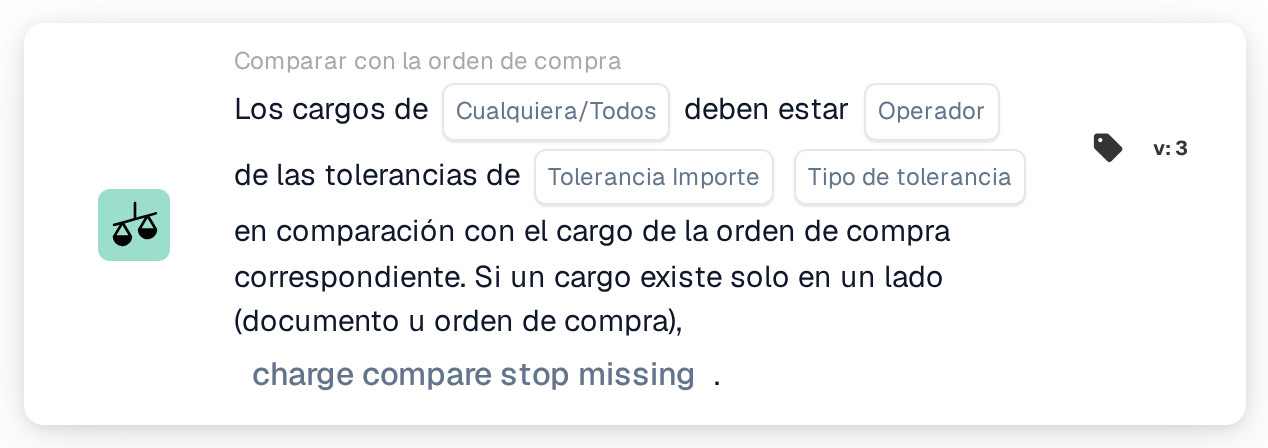
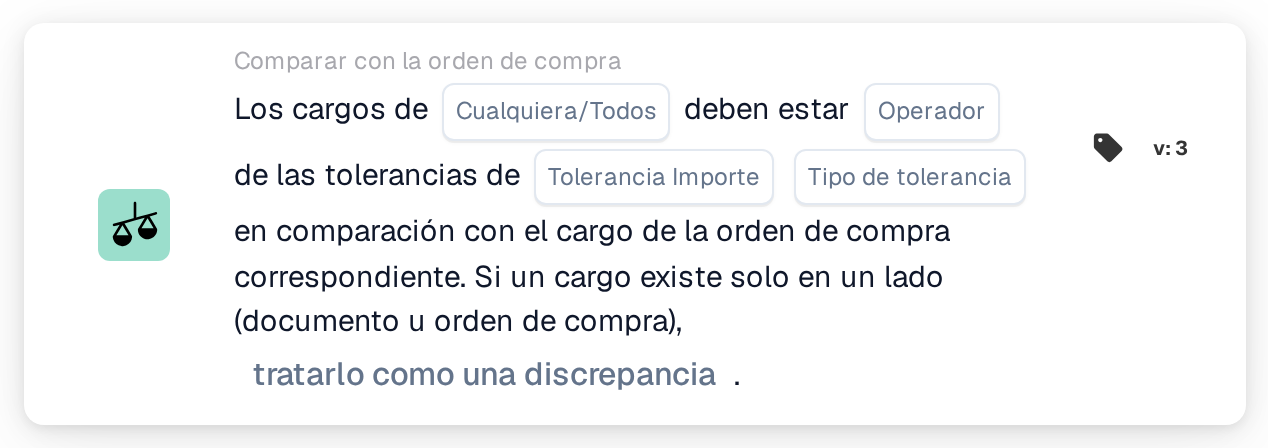
[Documentation_Workflow_Cards] [DRFS-871] add compare charges to po v4

Changed region(s): [[0.1845, 0.8125, 0.5844, 0.875]]

diff --git a/public_docs/administration-and-setup/workflow/and/compare-with-purchase-order/any-all-charges.md b/public_docs/administration-and-setup/workflow/and/compare-with-purchase-order/any-all-charges.md
@@ -4,13 +4,15 @@
 
 <figure><img src="../../../../.gitbook/assets/workflow_card_condition_compare_charges_to_po_v3-es-es.png" alt="Cualquier/Todos los cargos, Versión 3" width="634"><figcaption><p>Versión 3</p></figcaption></figure>
 
+<figure><img src="../../../../.gitbook/assets/workflow_card_condition_compare_charges_to_po_v4-es-es.png" alt="Tarjeta de Workflow Comparar con la orden de compra: Los cargos de Cualquiera/Todos deben estar Operador de las tolerancias de Tolerancia Importe Tipo de tolerancia en comparación con el cargo de la orden de compra correspondiente; un cargo de 0,00 también se compara. Si un cargo existe solo en un lado (documento u orden de compra), Comportamiento de los datos faltantes, Versión 4" width="634"><figcaption><p>Versión 4</p></figcaption></figure>
+
 ## **Propósito:**
 
-Esta tarjeta de flujo de trabajo compara los cargos adicionales de un documento con los cargos adicionales de la orden de compra correspondiente, dentro de una tolerancia definida. Responde a una sola pregunta: ¿coinciden el documento y la orden de compra en los cargos adicionales? Se compara cada cargo que la conciliación de la orden de compra haya emparejado, por lo que no hay que indicar ningún nombre de campo en la tarjeta.
+Esta tarjeta de Workflow compara los cargos adicionales de un documento con los cargos adicionales de la orden de compra correspondiente, dentro de una tolerancia definida. Responde a una sola pregunta: ¿coinciden el documento y la orden de compra en los cargos adicionales? Se compara cada cargo que la conciliación de la orden de compra haya emparejado, por lo que no hay que indicar ningún nombre de campo en la tarjeta.
 
 Esta tarjeta se distingue de **Comparar cargos totales**, que compara un único campo del documento con un solo cargo identificado mediante un Charge ID. Utilice esta tarjeta cuando todos los cargos emparejados del documento deban comprobarse a la vez.
 
-La conciliación de la orden de compra debe ejecutarse antes de esta tarjeta. Si el documento no tiene una orden de compra correspondiente, la tarjeta detiene el flujo de trabajo e informa de datos faltantes.
+La conciliación de la orden de compra debe ejecutarse antes de esta tarjeta. Si el documento no tiene una orden de compra correspondiente, la tarjeta detiene el Workflow e informa de datos faltantes.
 
 ## **Componentes de la tarjeta:**
 
@@ -31,11 +33,11 @@ La conciliación de la orden de compra debe ejecutarse antes de esta tarjeta. Si
    * **Opciones**:
      * **Por ciento**: un porcentaje del cargo de la orden de compra.
      * **Valor**: un importe fijo.
-5. **Comportamiento de los datos faltantes (solo versión 3):**
-   * **Descripción**: Qué hacer cuando un cargo existe solo en un lado, en el documento o en la orden de compra, de modo que no hay contraparte con la que compararlo. La opción está al final de la frase de la versión 3.
+5. **Comportamiento de los datos faltantes (versiones 3 y 4):**
+   * **Descripción**: Qué hacer cuando un cargo existe solo en un lado, en el documento o en la orden de compra, de modo que no hay contraparte con la que compararlo. La opción está al final de la frase.
    * **Opciones**:
-     * **tratarlo como una discrepancia**: el flujo de trabajo se detiene. Es el valor predeterminado.
-     * **ignorarlo y tratarlo como coincidente**: el flujo de trabajo continúa como si el cargo hubiera coincidido.
+     * **tratarlo como una discrepancia**: el Workflow se detiene. Es el valor predeterminado.
+     * **ignorarlo y tratarlo como coincidente**: el Workflow continúa como si el cargo hubiera coincidido.
 
 ## **Funcionalidad:**
 
@@ -43,42 +45,58 @@ La tarjeta recorre los siguientes pasos.
 
 1. **Requiere una orden de compra correspondiente.** Sin orden de compra correspondiente, la tarjeta se detiene de inmediato e informa de datos faltantes.
 2. **Lee la tolerancia** de **Tolerancia Importe** y **Tipo de tolerancia** en la tarjeta.
-3. **La versión 3 clasifica cada línea de orden de compra emparejada** en una de cuatro situaciones, preguntando únicamente si cada lado lleva algún cargo: cargos en ambos lados, ningún cargo en ninguno de los dos lados, cargos solo en el documento, o cargos solo en la orden de compra. Una línea que no puede asociarse a los datos de orden de compra del documento es un error de datos y la tarjeta se detiene.
+3. **Las versiones 3 y 4 clasifican cada línea de orden de compra emparejada** en una de cuatro situaciones: cargos en ambos lados, ningún cargo en ninguno de los dos lados, cargos solo en el documento, o cargos solo en la orden de compra. La versión 3 pregunta únicamente si cada lado lleva un cargo superior a 0,00. La versión 4 examina cada par de cargos y cuenta 0,00 como un valor; solo un cargo sin ningún importe cuenta como faltante. Véase **Diferencias entre versiones** más abajo. Una línea que no puede asociarse a los datos de orden de compra del documento es un error de datos y la tarjeta se detiene.
 4. **Un cargo presente en un solo lado decide toda la tarjeta.** En cuanto una línea emparejada lleva cargos en un lado y ninguno en el otro, **Comportamiento de los datos faltantes** decide el resultado y no se compara ningún cargo en absoluto, tampoco los cargos de las líneas correctamente emparejadas. El operador y la tolerancia no se consultan.
-5. **Si ninguna línea lleva cargos en ninguno de los dos lados**, ambos lados coinciden en que no hay cargos adicionales. El operador **En el exterior** no queda cumplido por ello, porque nada difiere más allá de la tolerancia, y el flujo de trabajo se detiene. Cualquier otro operador considera la coincidencia cumplida y el flujo de trabajo continúa. **Comportamiento de los datos faltantes** no tiene efecto aquí.
+5. **Si ninguna línea lleva cargos en ninguno de los dos lados**, ambos lados coinciden en que no hay cargos adicionales. El operador **En el exterior** no queda cumplido por ello, porque nada difiere más allá de la tolerancia, y el Workflow se detiene. Cualquier otro operador considera la coincidencia cumplida y el Workflow continúa. **Comportamiento de los datos faltantes** no tiene efecto aquí.
 6. **En caso contrario se compara cada cargo**, importe del documento contra importe de la orden de compra, con el operador y la tolerancia. Un importe de cargo que no sea un número detiene la tarjeta con datos faltantes.
-7. **Las comparaciones se agrupan y se combinan una sola vez.** Cada cargo de cada línea emparejada contribuye a un único conjunto de resultados, que el ajuste **Cualquiera/Todos** reduce al único resultado de la tarjeta. La agrupación es a nivel de documento, no por línea, de modo que **Cualquier** significa cualquier cargo en cualquier punto del documento. Si el resultado combinado es verdadero, el flujo de trabajo continúa; si no, se detiene con una condición no cumplida.
+7. **Las comparaciones se agrupan y se combinan una sola vez.** Cada cargo de cada línea emparejada contribuye a un único conjunto de resultados, que el ajuste **Cualquiera/Todos** reduce al único resultado de la tarjeta. La agrupación es a nivel de documento, no por línea, de modo que **Cualquier** significa cualquier cargo en cualquier punto del documento. Si el resultado combinado es verdadero, el Workflow continúa; si no, se detiene con una condición no cumplida.
 
 Conviene conocer tres consecuencias antes de configurar la tarjeta.
 
 * **dentro con una tolerancia de 0 exige igualdad exacta.** Los dos importes deben coincidir hasta el céntimo.
 * **Un cargo presente en un solo lado prevalece sobre todo lo demás.** Como el paso 4 se ejecuta antes de cualquier comparación, **ignorarlo y tratarlo como coincidente** también omite la comprobación de importes de cada cargo correctamente emparejado del documento. Mantenga **tratarlo como una discrepancia** si los importes deben verificarse.
-* **tratarlo como una discrepancia detiene el flujo de trabajo como error, no como condición no cumplida.** Pese a la formulación, la tarjeta informa de datos faltantes, lo que el registro del flujo de trabajo y la prueba de la tarjeta muestran en rojo y no en naranja como una condición no cumplida. El flujo de trabajo se detiene en ambos casos.
+* **tratarlo como una discrepancia detiene el Workflow como error, no como condición no cumplida.** Pese a la formulación, la tarjeta informa de datos faltantes, lo que el registro del Workflow y la prueba de la tarjeta muestran en rojo y no en naranja como una condición no cumplida. El Workflow se detiene en ambos casos.
 
 ## **Configuración e instalación:**
 
-Añada la tarjeta como condición And después de la conciliación de la orden de compra. Elija si cada cargo o cualquier cargo debe cumplir la comparación, elija el operador **dentro** o **En el exterior** e introduzca el importe y el tipo de tolerancia. En la versión 3, elija qué debe ocurrir cuando los cargos aparecen en un solo lado.
+Añada la tarjeta como condición And después de la conciliación de la orden de compra. Elija si cada cargo o cualquier cargo debe cumplir la comparación, elija el operador **dentro** o **En el exterior** e introduzca el importe y el tipo de tolerancia. En las versiones 3 y 4, elija qué debe ocurrir cuando los cargos aparecen en un solo lado.
 
 Para probar una configuración sin esperar un documento, abra el menú de la tarjeta en el Workflow Builder, elija **Tarjeta de prueba**, elija un documento y después **Prueba con este documento**. El registro de la tarjeta enumera cada cargo comparado con ambos importes, el operador y la tolerancia utilizada, y también recoge qué valor de **Comportamiento de los datos faltantes** decidió el resultado cuando un cargo estaba presente en un solo lado.
 
 ## **Escenario de ejemplo:**
 
-Una confirmación de pedido lleva un cargo de transporte de 100,00 y la línea de orden de compra correspondiente lleva el mismo cargo de transporte de 100,00. Con **Todos**, el operador **dentro** y una tolerancia de 0 como valor, los importes son iguales, la tarjeta se cumple y el flujo de trabajo continúa.
+Una confirmación de pedido lleva un cargo de transporte de 100,00 y la línea de orden de compra correspondiente lleva el mismo cargo de transporte de 100,00. Con **Todos**, el operador **dentro** y una tolerancia de 0 como valor, los importes son iguales, la tarjeta se cumple y el Workflow continúa.
 
-Con 120,00 en la confirmación de pedido frente a 100,00 en la orden de compra, la misma configuración no se cumple y el flujo de trabajo se detiene con una condición no cumplida.
+Con 120,00 en la confirmación de pedido frente a 100,00 en la orden de compra, la misma configuración no se cumple y el Workflow se detiene con una condición no cumplida.
 
-Si ni la confirmación de pedido ni la orden de compra llevan cargo alguno, el operador **dentro** lo considera coincidencia y el flujo de trabajo continúa, mientras que **En el exterior** lo detiene.
+Si ni la confirmación de pedido ni la orden de compra llevan cargo alguno, el operador **dentro** lo considera coincidencia y el Workflow continúa, mientras que **En el exterior** lo detiene.
 
-Si la confirmación de pedido lleva un cargo de transporte y la orden de compra ninguno, el operador ya no se aplica. Con **tratarlo como una discrepancia** el flujo de trabajo se detiene para que alguien pueda comprobar por qué el cargo figura solo en un lado.
+Si la confirmación de pedido lleva un cargo de transporte y la orden de compra ninguno, el operador ya no se aplica. Con **tratarlo como una discrepancia** el Workflow se detiene para que alguien pueda comprobar por qué el cargo figura solo en un lado.
+
+Si la confirmación de pedido muestra el cargo de transporte como 0,00 mientras que la orden de compra lleva 204,00, la versión 4 compara los dos importes y el Workflow se detiene con una condición no cumplida. La versión 3 interpretaría el 0,00 como "ningún cargo en el documento" y dejaría el resultado a **Comportamiento de los datos faltantes**.
 
 ## **Diferencias entre versiones:**
 
-La versión 3 es la que usan las tarjetas nuevas. La versión 2 sigue siendo compatible en los flujos de trabajo existentes. Ambas versiones comparan cargo por cargo y combinan los resultados a nivel de documento con el ajuste **Cualquiera/Todos**, pero la versión 2 no tiene clasificación por casos, lo que cambia lo que ocurre en cuanto los cargos no están presentes en ambos lados:
+La versión 4 es la que usan las tarjetas nuevas. Las versiones 2 y 3 siguen siendo compatibles en los Workflows existentes.
+
+### Versión 4 en comparación con la versión 3
+
+Las dos versiones tienen los mismos ajustes y los mismos pasos. Solo se diferencian en cómo tratan un cargo de 0,00:
+
+* **La versión 3 trata 0,00 como ningún cargo.** Un cargo de 0,00 en el documento emparejado con un cargo de 204,00 en la orden de compra cuenta como "la orden de compra tiene cargos, el documento no tiene ninguno", de modo que decide **Comportamiento de los datos faltantes** y los importes nunca se comparan. Con **ignorarlo y tratarlo como coincidente** el Workflow continúa, aunque los importes difieran.
+* **La versión 4 compara 0,00 como un importe.** El mismo par se compara como cualquier otro: 0,00 frente a 204,00 no está dentro de la tolerancia, por lo que el Workflow se detiene con una condición no cumplida. Un par con 0,00 en ambos lados también se compara y coincide.
+* **Un cargo sin importe sigue considerándose faltante en la versión 4.** Cuando un lado de un par no tiene ningún importe, por ejemplo un cargo que la orden de compra no lleva, decide **Comportamiento de los datos faltantes**, como en la versión 3.
+
+Para obtener este comportamiento en un Workflow existente, sustituya la tarjeta de la versión 3 por una tarjeta de la versión 4 y configure los mismos valores.
+
+### Versión 2
+
+La versión 2 también compara cargo por cargo y combina los resultados a nivel de documento con el ajuste **Cualquiera/Todos**, pero no tiene clasificación por casos, lo que cambia lo que ocurre en cuanto los cargos no están presentes en ambos lados:
 
 * La versión 2 no tiene la opción **Comportamiento de los datos faltantes**. Su frase termina después del tipo de tolerancia.
-* La versión 2 no clasifica las líneas emparejadas y por tanto no reconoce un cargo que existe solo en un lado. Compara el importe presente contra el 0,00 retenido para el lado que falta, y el operador decide: **dentro** no se cumple y el flujo de trabajo se detiene, **En el exterior** se cumple y el flujo de trabajo continúa. El registro de la tarjeta muestra la comparación contra 0,00.
+* La versión 2 no clasifica las líneas emparejadas y por tanto no reconoce un cargo que existe solo en un lado. Compara el importe presente contra el 0,00 retenido para el lado que falta, y el operador decide: **dentro** no se cumple y el Workflow se detiene, **En el exterior** se cumple y el Workflow continúa. El registro de la tarjeta muestra la comparación contra 0,00.
 * Si ninguno de los dos lados lleva cargos, la versión 2 no tiene nada que comparar e informa de datos faltantes en lugar de considerar la ausencia en ambos lados como coincidencia.
 
 ## **Conclusión:**
 
-La tarjeta "Any / All Charges" automatiza la comprobación de que los cargos adicionales facturados o confirmados se corresponden con los cargos adicionales pedidos. Como la ausencia de cargos en ambos lados cuenta como coincidencia en la versión 3, los documentos sin cargos adicionales pasan sin intervención manual, mientras que los cargos que aparecen en un solo lado se retienen para su revisión, salvo que ello se permita deliberadamente.
+La tarjeta "Any / All Charges" automatiza la comprobación de que los cargos adicionales facturados o confirmados se corresponden con los cargos adicionales pedidos. Como la ausencia de cargos en ambos lados cuenta como coincidencia en las versiones 3 y 4, los documentos sin cargos adicionales pasan sin intervención manual, mientras que los cargos que aparecen en un solo lado se retienen para su revisión, salvo que ello se permita deliberadamente.
